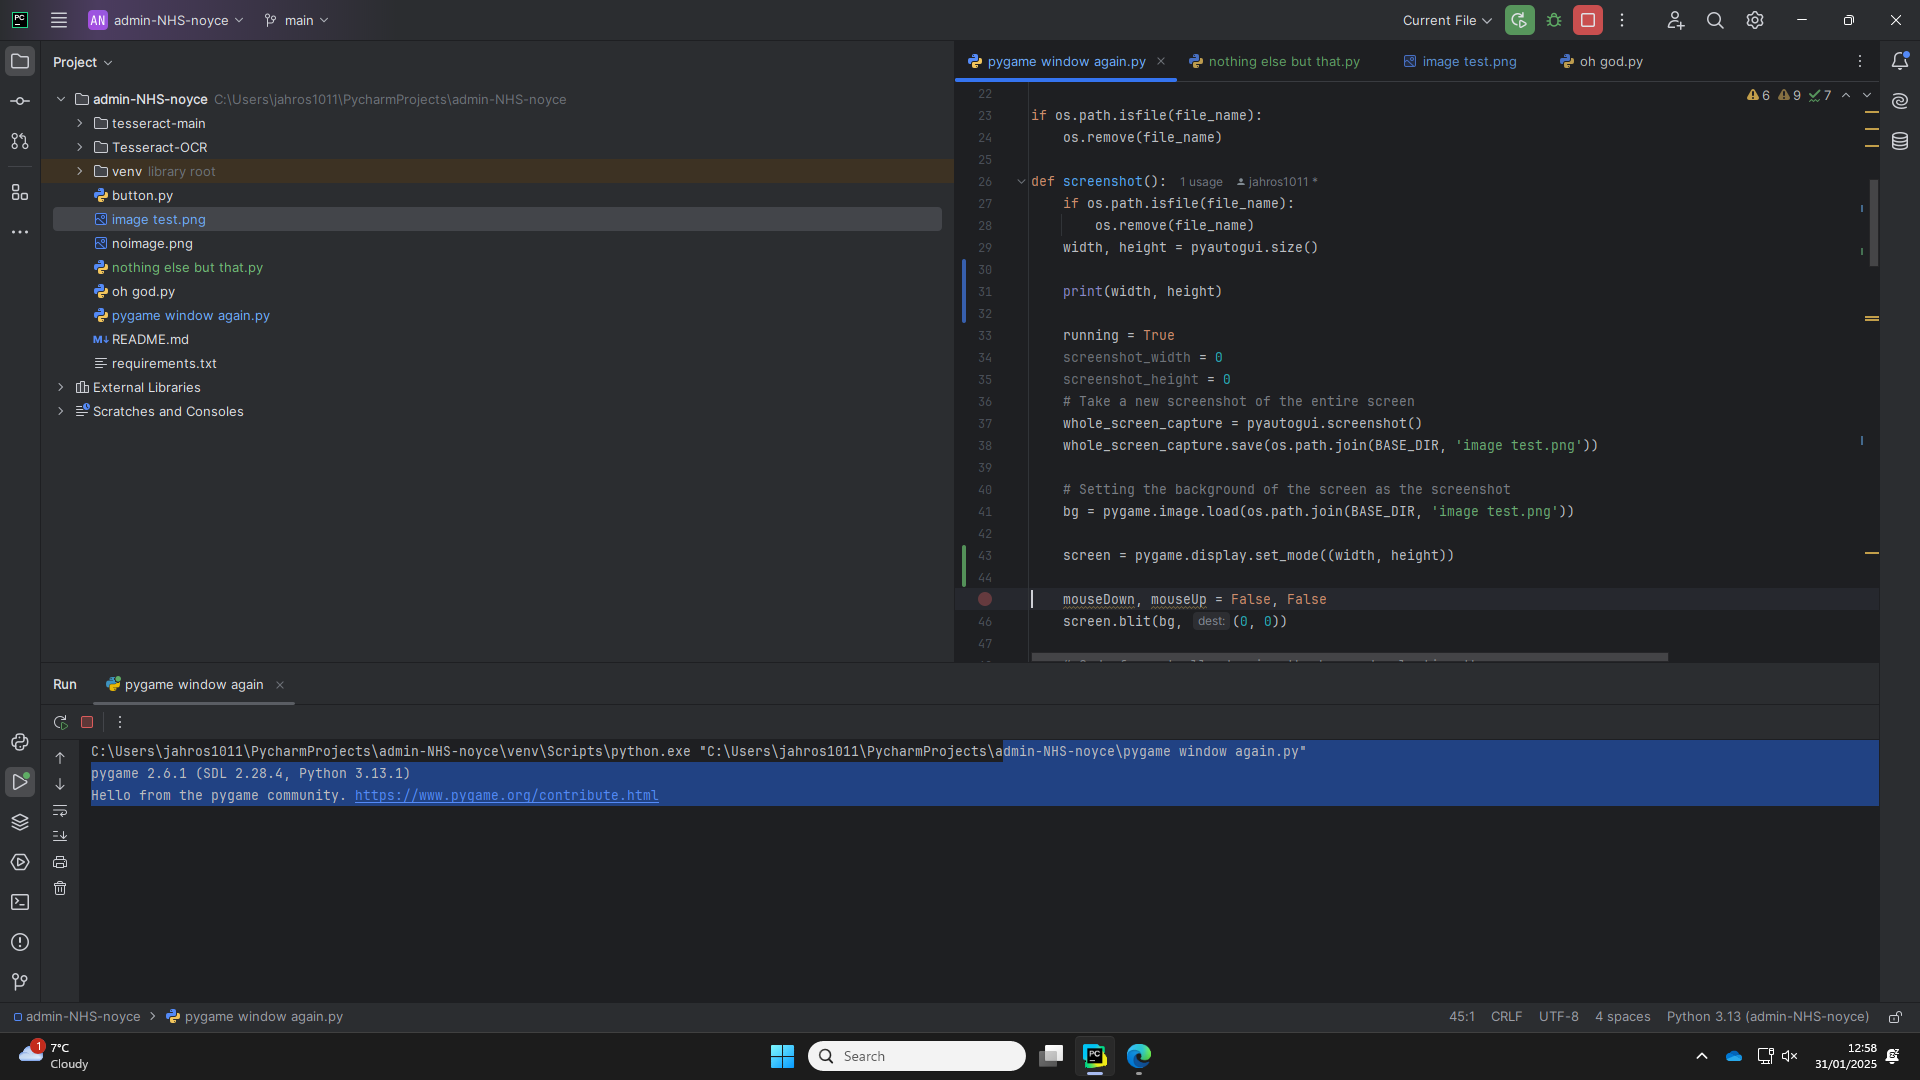
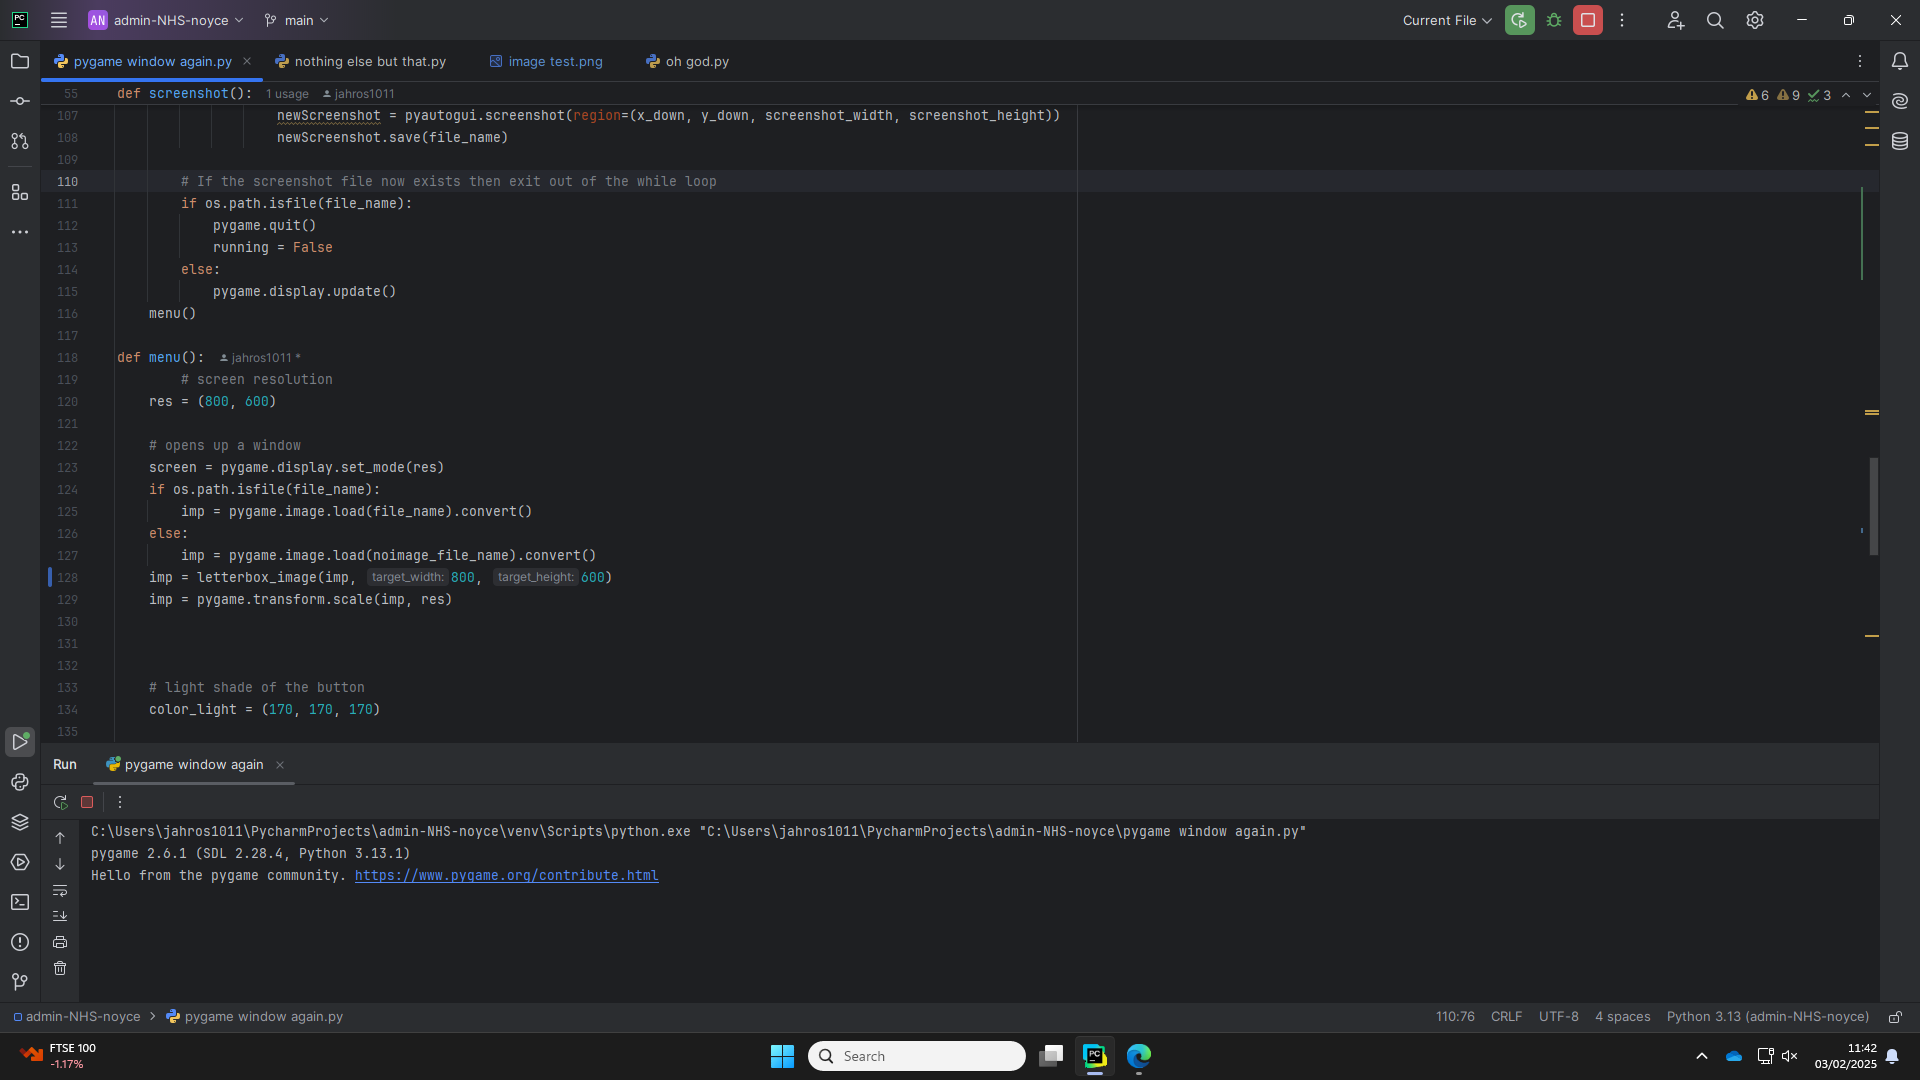
letterboxing working

diff --git a/pygame window again.py b/pygame window again.py
@@ -23,6 +23,35 @@ text = smallfont.render('please please please', True, color)
 if os.path.isfile(file_name):
     os.remove(file_name)
 
+def letterbox_image(image, target_width, target_height, background_color=(0, 0, 0)):
+    # Get the original dimensions of the image
+    original_width, original_height = image.get_size()
+
+    # Calculate the scaling factor to fit the image within the target dimensions
+    width_ratio = target_width / original_width
+    height_ratio = target_height / original_height
+    scale_factor = min(width_ratio, height_ratio)  # Maintain aspect ratio
+
+    # Calculate the new dimensions of the scaled image
+    scaled_width = int(original_width * scale_factor)
+    scaled_height = int(original_height * scale_factor)
+
+    # Scale the image
+    scaled_image = pygame.transform.scale(image, (scaled_width, scaled_height))
+
+    # Create a new surface for the letterboxed image
+    letterboxed_surface = pygame.Surface((target_width, target_height))
+    letterboxed_surface.fill(background_color)  # Fill with the background color
+
+    # Calculate the position to center the scaled image
+    x_offset = (target_width - scaled_width) // 2
+    y_offset = (target_height - scaled_height) // 2
+
+    # Blit the scaled image onto the letterboxed surface
+    letterboxed_surface.blit(scaled_image, (x_offset, y_offset))
+
+    return letterboxed_surface
+
 def screenshot():
     if os.path.isfile(file_name):
         os.remove(file_name)
@@ -96,9 +125,7 @@ def menu():
         imp = pygame.image.load(file_name).convert()
     else:
         imp = pygame.image.load(noimage_file_name).convert()
-    #temp_resolution = imp.get_size()
-    #print(temp_resolution)
-
+    imp = letterbox_image(imp, 800, 600)
     imp = pygame.transform.scale(imp, res)
 
 
